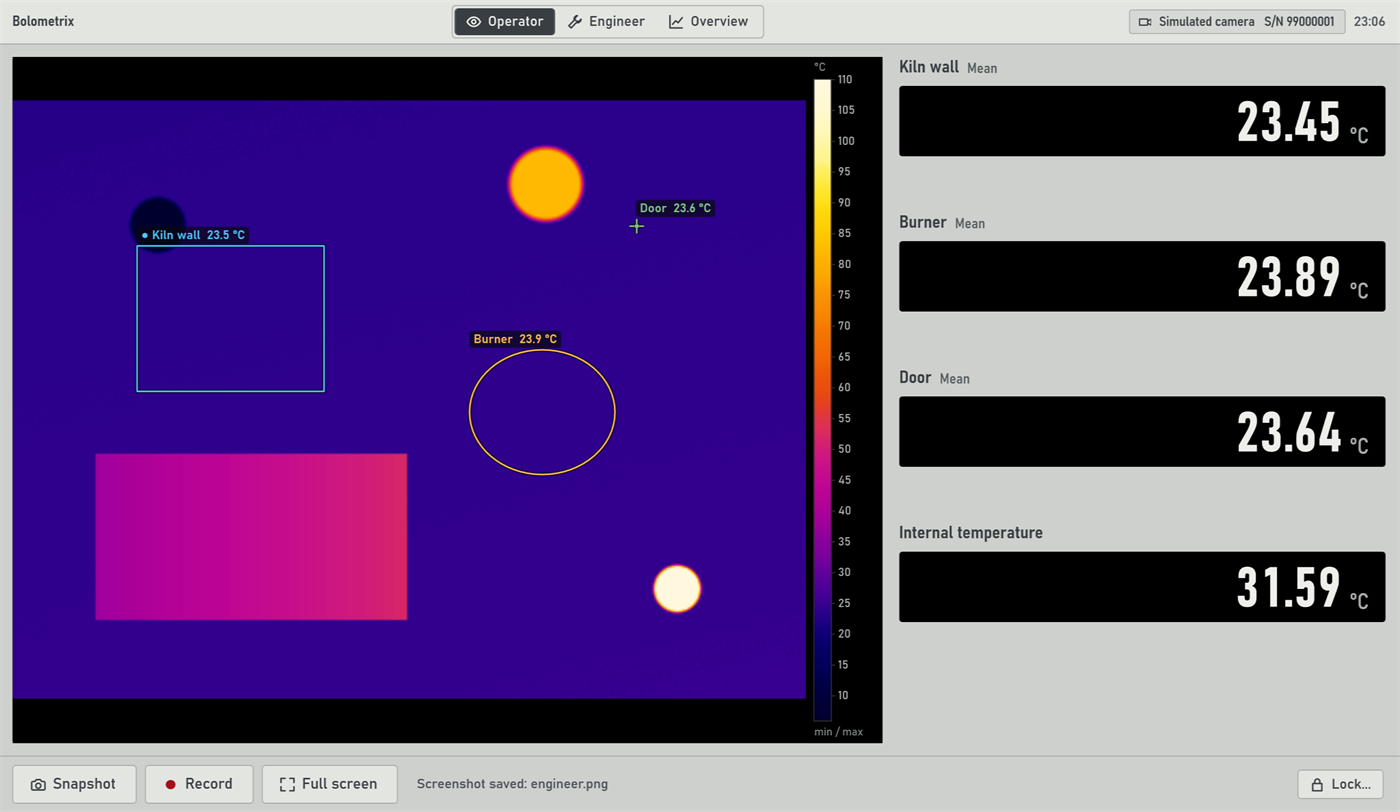
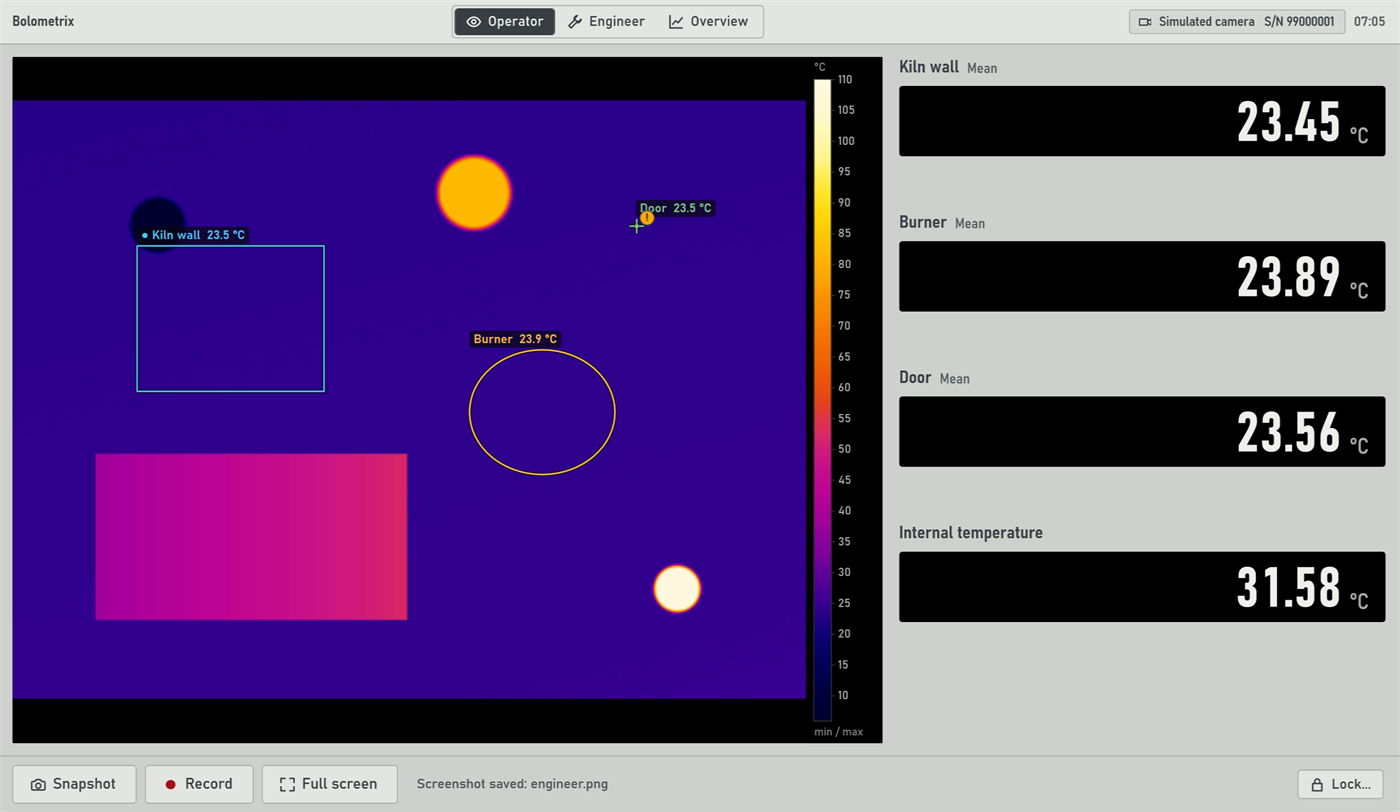
Bolometrix 0.15.0: the README and its picture

diff --git a/README.md b/README.md
@@ -1,6 +1,7 @@
 # Bolometrix
 
-**Temperature measurement and analysis for Optris infrared cameras, on Windows.**
+**Temperature measurement and analysis for Optris infrared cameras, on Windows (and, without a
+window, on Linux).**
 
 Bolometrix turns an Optris infrared camera into a full thermal measurement station: a live
 thermal picture with measure areas and alarms, recordings and snapshots, line scanning of moving
@@ -15,21 +16,40 @@ temperatures are computed by the Optris Thermal Camera SDK, which ships with it.
 
 ## What it does
 
-- **Live measurement** — measure areas (rectangle, ellipse, point, polygon, profiles), hot and
-  cold spot tracking, calculated objects, and per-area emissivity.
+- **Live measurement** — measure areas (rectangle, ellipse, point, polygon, freehand, profiles),
+  hot and cold spot tracking, calculated objects, per-area emissivity and emissivity regions,
+  objects found by temperature, and lengths and sizes in millimetres from the distance and the
+  field of view.
+- **Values you can trust** — the uncertainty of each value from Optris's stated accuracy, user
+  calibration at several points (every corrected value marked "corr."), a verification log of
+  readings against a reference, and the camera's health at a glance.
 - **Alarms** — upper and lower limits with pre-alarms, shown in words and colour, that can set
   off a snapshot, a recording, or a process-interface output.
 - **Three views** — Operator (watch the process), Engineer (set it up), and Overview (the shift
   at a glance, with a one-page PDF shift report).
 - **Recording & snapshots** — radiometric recordings you can re-measure later, plain-video
-  recordings, and radiometric TIFF / CSV / image snapshots.
+  recordings, and radiometric TIFF / CSV / image snapshots, with a watermark if you like.
+- **Exports, reports & batch work** — pictures, diagrams and recordings to Excel, MATLAB and
+  HDF5; inspection reports from snapshots as PDF or Word; one setting applied to many snapshots
+  at once.
 - **Line scanning** — build a picture of a moving belt, sheet, or strip, line by line.
 - **Merged pictures** — several cameras side by side, shown and measured as one picture.
 - **Dual-range test** — two cameras in different ranges joined into one temperature curve; each
   test is saved with its data, a plot, and full metadata.
 - **Interfaces** — the Optris process interface, PIX Connect-compatible remote commands over COM
-  and TCP, a live web page with a QR code, a shared live picture, and a phone link (the phone app
-  is still being built).
+  and TCP, a live web page with a QR code (it also offers the Android app when the app's file
+  lies beside the program), a shared live picture, and a phone link.
+- **Connections to other systems** — Modbus TCP and OPC UA servers for PLCs and SCADA, MQTT,
+  e-mail (or text message) on alarms, an RTSP video stream, an AI link (MCP) for assistants, and
+  one overview of several PCs. Each is off until you switch it on, listens only on the PC itself
+  until you choose the network, and changes nothing unless you allow it.
+- **The plant** — a long history (a year of values), process statistics (control limits, Cp and
+  Cpk), recipes with lot numbers, user roles with an audit trail, and ready starts for common
+  jobs.
+- **Reach** — the window in English, German or Spanish; updates and error reports when you
+  switch them on; network cameras found and set up with a guide; autofocus on your word.
+- **Without a window** — Bolometrix for a server or a PC without a screen, on Windows and on
+  Linux (x64 and arm64, with Optris's Linux SDK).
 
 ## Requirements
 
@@ -37,6 +57,10 @@ temperatures are computed by the Optris Thermal Camera SDK, which ships with it.
 - An Optris infrared camera (tested with the Xi 400)
 - Nothing else — the parts of the Optris SDK the camera needs ship with Bolometrix. You do not
   install the Optris SDK or PIX Connect.
+- Only for Bolometrix without a window: Microsoft's .NET 8 runtime (or newer); on Linux also
+  Optris's SDK package for the system (Ubuntu 24.04 x64 or Debian 12 arm64). The Linux builds are
+  `Bolometrix-<version>-linux-x64.zip` and `-linux-arm64.zip`; they are built but not yet tried
+  on Linux.
 
 ## Install
 
@@ -55,14 +79,21 @@ and click **Connect**.
 
 ## Network
 
-Bolometrix sends nothing over the internet by itself, with one exception: when a camera needs
-calibration files that are not on the PC, the Optris SDK downloads them from Optris (this can be
-switched off on the page Camera). When the PC lacks it, `Setup.exe` fetches
+As it comes, Bolometrix sends nothing over the internet by itself, with one exception: when a
+camera needs calibration files that are not on the PC, the Optris SDK downloads them from Optris
+(this can be switched off on the page Camera). When the PC lacks it, `Setup.exe` fetches
 Microsoft's Visual C++ runtime from Microsoft.
+
+Every network function is off until you switch it on, and one that listens (web page, remote
+commands, Modbus TCP, OPC UA, the video stream) stays on the PC itself until you choose the
+network. What you switch on sends only to what you enter: updates to GitHub (at most once a
+day), MQTT to your broker, e-mail to your mail server, the overview of other PCs to their pages.
+`For IT departments.txt` lists every port.
 
 ## Documentation
 
 - **User's guide** (`User's guide.pdf`) — step-by-step, with pictures.
+- **For IT departments** (`For IT departments.txt`) — silent installs, folders, every port.
 - **Changelog** (`CHANGELOG.txt`) — what each version added.
 - **Terms of use** (`Terms of use.txt`) — also under Help → Terms of use.
 - **Notices** (`Notices.txt`) — the parts made by others that Bolometrix includes, and their
@@ -80,8 +111,12 @@ watch a process; they are not a safety system.
 
 Copyright (c) 2026 Derek Holzapfel. All rights reserved.
 Optris is a registered trademark of Optris GmbH & Co. KG; PIX Connect and Xi are product names of
-Optris. QR Code is a registered trademark of DENSO WAVE INCORPORATED. Microsoft, Windows and .NET
-are trademarks of the Microsoft group of companies. They are named here only to say what
-Bolometrix works with.
+Optris. QR Code is a registered trademark of DENSO WAVE INCORPORATED. Microsoft, Windows, Excel,
+Word and .NET are trademarks of the Microsoft group of companies. MATLAB is a registered trademark
+of The MathWorks, Inc. HDF5 is a trademark of The HDF Group. Modbus is a registered trademark of
+Schneider Electric USA, Inc. OPC UA is a trademark of the OPC Foundation. Linux is the registered
+trademark of Linus Torvalds in the U.S. and other countries. Ubuntu is a registered trademark of
+Canonical Ltd. Debian is a registered trademark of Software in the Public Interest, Inc. Android
+is a trademark of Google LLC. They are named here only to say what Bolometrix works with.
 
 [releases]: https://github.com/derekownsall/bolometrix/releases
